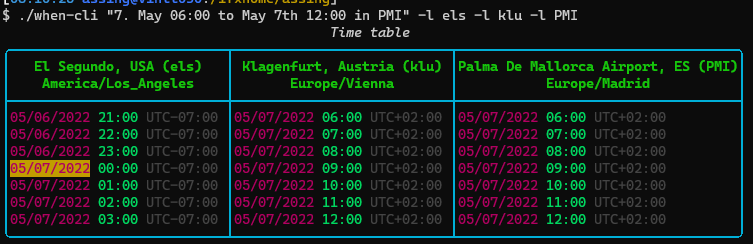
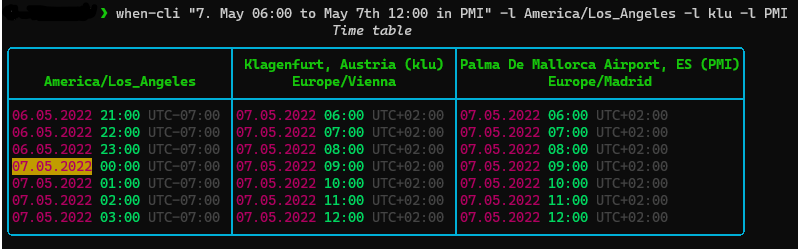
chore(documentaion): usage and configuriation docu #5

diff --git a/when/__main__.py b/when/__main__.py
@@ -8,10 +8,11 @@ import rich.box
 import rich_click.rich_click
 import rich_click.typer as typer
 from rich import print
+from rich.markdown import Markdown
 from rich.style import Style
 from rich.table import Table
 from rich.text import Text
-from rich.markdown import Markdown
+
 from when import rich_typer
 from when.config import settings
 from when.when import when
@@ -124,15 +125,17 @@ def main(
         metavar="LOCATION_KEY",
         envvar="WHEN_LOCATIONS",
     ),
-    table_color: str = typer.Option("deep_sky_blue2", envvar="WHEN_TABLE_COLOR", metavar="COLOR", show_default=True),
-    table_padding: int = typer.Option(0, envvar="WHEN_TABLE_PADDING", metavar="INTEGER"),
-    header_color: str = typer.Option("green", envvar="WHEN_HEADER_COLOR", metavar="COLOR"),
-    date_format: str = typer.Option("%x", envvar="WHEN_DATE_FORMAT", metavar="FORMAT_DIRECTIVE"),
-    date_color: str = typer.Option("deep_pink4", envvar="WHEN_DATE_COLOR", metavar="COLOR"),
-    time_format: str = typer.Option("%H:%M", envvar="WHEN_TIME_FORMAT", metavar="FORMAT_DIRECTIVE"),
-    time_color: str = typer.Option("spring_green3", envvar="WHEN_TIME_COLOR", metavar="COLOR"),
-    tz_format: str = typer.Option("%Z", envvar="WHEN_TZ_FORMAT", metavar="FORMAT_DIRECTIVE"),
-    tz_color: str = typer.Option("grey27", envvar="WHEN_TZ_COLOR", metavar="COLOR"),
+    table_color: str = typer.Option(
+        "deep_sky_blue2", envvar="WHEN_TABLE_COLOR", metavar="COLOR", help="Table border color"
+    ),
+    row_padding: int = typer.Option(0, envvar="WHEN_ROW_PADDING", metavar="INTEGER", help="Row padding"),
+    header_color: str = typer.Option("green", envvar="WHEN_HEADER_COLOR", metavar="COLOR", help="Header font color"),
+    date_format: str = typer.Option("%x", envvar="WHEN_DATE_FORMAT", metavar="FORMAT_DIRECTIVE", help="Date format"),
+    date_color: str = typer.Option("deep_pink4", envvar="WHEN_DATE_COLOR", metavar="COLOR", help="Date font color"),
+    time_format: str = typer.Option("%H:%M", envvar="WHEN_TIME_FORMAT", metavar="FORMAT_DIRECTIVE", help="Time format"),
+    time_color: str = typer.Option("spring_green3", envvar="WHEN_TIME_COLOR", metavar="COLOR", help="Time font color"),
+    tz_format: str = typer.Option("%Z", envvar="WHEN_TZ_FORMAT", metavar="FORMAT_DIRECTIVE", help="Timezone format"),
+    tz_color: str = typer.Option("grey27", envvar="WHEN_TZ_COLOR", metavar="COLOR", help="Timezone font color"),
     info_columns: List[str] = typer.Option(
         [k for k, v in INFO_COLS],
         "--info-columns",
@@ -168,6 +171,10 @@ def main(
     $ when-cli --usage
 
     \b
+    [b white]Strftime[/]
+    Standard datetime format codes [link]https://docs.python.org/3/library/datetime.html#strftime-and-strptime-format-codes[/]
+
+    \b
     [#2020FF]C[/][#4520FF]o[/][#6A20FF]l[/][#8F20FF]o[/][#B420FF]r[/][#D920FF]s[/]
     See [link]https://rich.readthedocs.io/en/latest/appendix/colors.html[/] for all available color codes.
     """
@@ -178,7 +185,7 @@ def main(
         sys.exit(1)
 
     zones = sorted(r, key=lambda x: x.offset)
-    table = Table(title="Time table", style=table_color, box=rich.box.ROUNDED, padding=table_padding)
+    table = Table(title="Time table", style=table_color, box=rich.box.ROUNDED, padding=row_padding)
     for zone in zones:
         text = zone.description + (f" ({zone.name})" if zone.name else "")
         if text:

diff --git a/when/config.py b/when/config.py
@@ -7,7 +7,6 @@ from .model import Location
 
 
 class Settings(BaseSettings):
-    debug: bool = False
     default_tz: str = str(get_localzone())
     locations: List[Location] = [
         Location(key="klu", description="Klagenfurt, Austria", tz="Europe/Vienna"),

diff --git a/USAGE.md b/USAGE.md
@@ -10,13 +10,13 @@ $ when-cli [OPTIONS] TIME_STRING
 $ when-cli "17:00 in Lisbon" -l lax -l Berlin
 
 ```
-
-#TODO screenshot
+<img src="https://raw.githubusercontent.com/chassing/when-cli/master/media/usage-example1.png" width="50%" />
 
 ```shell
 $ when-cli "30. September 17:00 to Oct 1st 2:3pm in LAX"
 ```
-#TODO screenshot
+
+<img src="https://raw.githubusercontent.com/chassing/when-cli/master/media/usage-example2.png" width="50%" />
 
 
 # TIME_STRING Syntax
@@ -78,17 +78,100 @@ International airport codes (IATA 3-letter code, ICAO 4-alphanumeric code), e.g.
 
 > Airport codes are not case-sensitive
 
-Or self defined location (see CONFIG.md), e.g.:
-* home 😁
+Or self defined location (see [Configuration](https://github.com/chassing/when-cli/blob/master/USAGE.md#Configuration)), e.g.:
+* home 🏡
 
 > Location keys are not case-sensitive
 
 
-
 # Options
 
-TODO
+| Option long          | Option short | Metavar          | Default                | Description                                           | Environment variable |
+| -------------------- | ------------ | ---------------- | ---------------------- | ----------------------------------------------------- | -------------------- |
+| --locations          | -l           | LOCATION_KEY     | **klu, els, sin, utc** | Display these locations. Can be given multiple times. | WHEN_LOCATIONS       |
+| --table-color        |              | COLOR            | **deep_sky_blue2**     | Table border color ([Rich Colors])                    | WHEN_TABLE_COLOR     |
+| --row-padding        |              | INTEGER          | **0**                  | Row padding                                           | WHEN_ROW_PADDING     |
+| --header-color       |              | COLOR            | **green**              | Header font color ([Rich Colors])                     | WHEN_HEADER_COLOR    |
+| --date-format        |              | FORMAT_DIRECTIVE | **%x**                 | Date format ([Python format codes])                   | WHEN_DATE_FORMAT     |
+| --date-color         |              | COLOR            | **deep_pink4**         | Date font color ([Rich Colors])                       | WHEN_DATE_COLOR      |
+| --time-format        |              | FORMAT_DIRECTIVE | **%H:%M**              | Time format ([Python format codes])                   | WHEN_TIME_FORMAT     |
+| --time-color         |              | COLOR            | **spring_green3**      | Time font color ([Rich Colors])                       | WHEN_TIME_COLOR      |
+| --tz-format          |              | FORMAT_DIRECTIVE | **%Z**                 | Timezone format ([Python format codes])               | WHEN_TZ_FORMAT       |
+| --tz-color           |              | COLOR            | **grey27**             | Timezone font color ([Rich Colors])                   | WHEN_TZ_COLOR        |
+| --info-columns       | -i           | COL_NAME         | **date, time, tz**     | Display these columns in this order.                  | WHEN_INFO_COLUMNS    |
+| --usage              |              |                  |                        | Show usage.                                           | |
+| --install-completion |              |                  |                        | Install completion for the specified shell.           | |
+| --show-completion    |              |                  |                        | Show completion for the specified shell.              | |
+| --help               |              |                  |                        | Show this message and exit.                           | |
 
-| foo | bar |
-| --- | --- |
-| baz | bim |
+Instead of specifying your preferred option via command line again and again you can use environment variables.
+
+with command line options:
+```bash
+$ when-cli "17:00 in Europe/Berlin" -l lax -l pmi --row-padding 1 --table-color red1 --header-color gold1
+```
+
+instead with environment variables:
+
+```bash
+$ export WHEN_LOCATIONS="lax pmi"
+$ export WHEN_ROW_PADDING=1
+$ export WHEN_TABLE_COLOR=red1
+$ export WHEN_HEADER_COLOR=gold1
+$ when-cli "17:00 in Europe/Berlin"
+
+```
+
+both will print
+
+<img src="https://raw.githubusercontent.com/chassing/when-cli/master/media/usage-example3.png" width="50%" />
+
+
+[Python format codes]: https://docs.python.org/3/library/datetime.html#strftime-and-strptime-format-codes
+[Rich Colors]:         https://rich.readthedocs.io/en/latest/appendix/colors.html
+
+
+# Configuration
+
+Adapt **when-cli** configs via additional environment variables.
+
+## Default timezone
+
+Set the timezone which will be used if not timezone is given in *TIME_STRING*.
+
+**WHEN_CONFIG_DEFAULT_TZ**
+
+default: host timezone
+
+example
+```
+$ export WHEN_CONFIG_DEFAULT_TZ="UTC"
+```
+
+## Custom locations
+
+You can define your own locations  with a custom location key (e.g. **home**), description, and timezone (tz). Those locations definition will be used also if no location is specified on the command line (--location).
+
+It's a JSON list of dictionaries in this format:
+
+```json
+[{
+    "key": "location-key",
+    "description": "long description",
+    "tz": "timezone name"
+},{
+    "key": "other-location-key",
+    "description": "long description",
+    "tz": "timezone name"
+}]
+```
+
+**WHEN_CONFIG_LOCATIONS**
+
+example:
+```
+$ export WHEN_CONFIG_LOCATIONS='[{ "key": "🏠", "description": "On my couch", "tz": "Europe/Vienna" },{ "key": "ron", "description": "Buddies home", "tz": "America/New_York" }]'
+$ when-cli '17:00'
+```
+<img src="https://raw.githubusercontent.com/chassing/when-cli/master/media/usage-example4.png" width="50%" />
+
